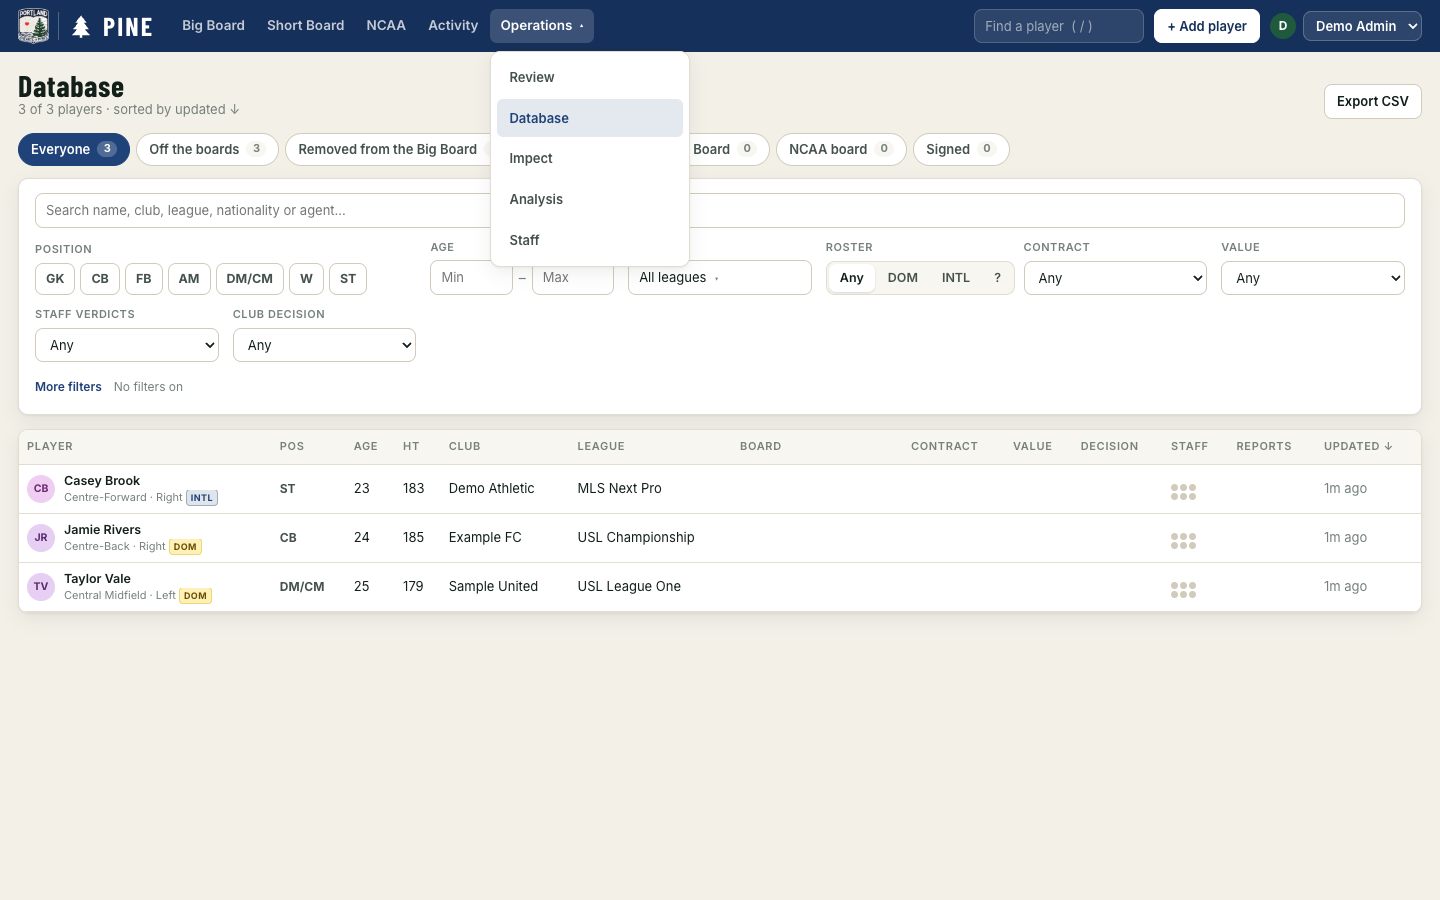
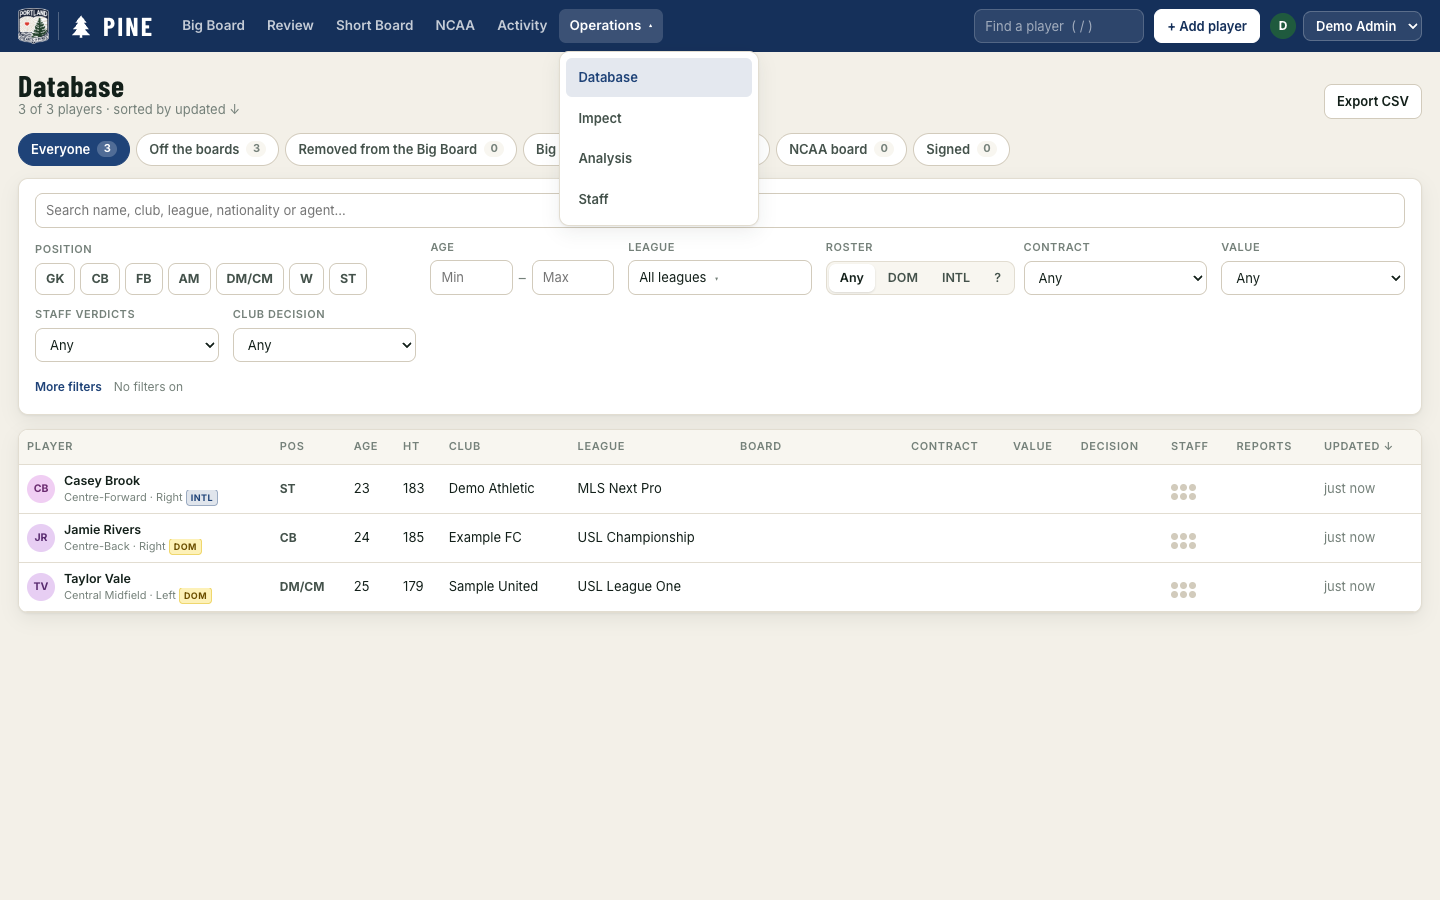
Restore Review as a separate navigation tab

diff --git a/public/app.js b/public/app.js
@@ -370,12 +370,12 @@ function renderShell() {
     <a class="brand" href="#/board"><img class="club-crest" src="/hop-crest.png?v=1" alt="Portland Hearts of Pine" width="31" height="36"><span class="brand-divider" aria-hidden="true"></span>${LOGO}<span class="wordmark">PINE</span><span class="tagline">Player Identification Network Evaluation</span></a>
     <nav class="nav" id="nav">
       <a href="#/board" data-v="board">Big Board</a>
+      ${reviewRole() ? `<a href="#/review" data-v="review">Review<span class="nav-badge" id="review-badge" ${S.reviewOpen ? "" : "hidden"}>${S.reviewOpen || ""}</span></a>` : ""}
       <a href="#/short-board" data-v="short-board">Short Board</a>
       <a href="#/ncaa" data-v="ncaa">NCAA</a>
       <a href="#/activity" data-v="activity">Activity</a>
-      <button class="nav-trigger" id="operations-trigger" type="button" popovertarget="operations-menu" aria-controls="operations-menu" aria-expanded="false">Operations${reviewRole() ? `<span class="nav-badge" id="operations-review-badge" title="Reviews waiting on you" ${S.reviewOpen ? "" : "hidden"}>${S.reviewOpen || ""}</span>` : ""}<span class="nav-caret" aria-hidden="true">▾</span></button>
+      <button class="nav-trigger" id="operations-trigger" type="button" popovertarget="operations-menu" aria-controls="operations-menu" aria-expanded="false">Operations<span class="nav-caret" aria-hidden="true">▾</span></button>
       <div class="nav-menu" id="operations-menu" popover role="group" aria-label="Operations">
-        ${reviewRole() ? `<a href="#/review" data-v="review">Review<span class="nav-badge" id="review-badge" ${S.reviewOpen ? "" : "hidden"}>${S.reviewOpen || ""}</span></a>` : ""}
         <a href="#/players" data-v="players">Database</a>
         <a href="#/impect" data-v="impect">Impect</a>
         <a href="#/analysis" data-v="analysis">Analysis</a>
@@ -480,7 +480,7 @@ async function render() {
     if (a.dataset.v === view) a.setAttribute("aria-current", "page");
     else a.removeAttribute("aria-current");
   });
-  const inOperations = ["review", "players", "player", "impect", "analysis", "staff"].includes(view);
+  const inOperations = ["players", "player", "impect", "analysis", "staff"].includes(view);
   $("#operations-trigger").classList.toggle("on", inOperations);
   const link = $("#nav > .on"), nav = $("#nav");
   if (link && nav.scrollWidth > nav.clientWidth) nav.scrollLeft = link.offsetLeft - nav.offsetLeft - (nav.clientWidth - link.offsetWidth) / 2;
@@ -3791,10 +3791,10 @@ const TM_LINK = /transfermarkt\.[a-z.]+\/.+\/spieler\/\d+/i;
 // The count is kept so the nav shows it however it's drawn: boot fetches it before the nav exists.
 function setReviewBadge(n) {
   S.reviewOpen = n || 0;
-  $$("#review-badge, #operations-review-badge").forEach((b) => {
-    b.hidden = !n;
-    b.textContent = n || "";
-  });
+  const b = $("#review-badge");
+  if (!b) return;
+  b.hidden = !n;
+  b.textContent = n || "";
 }
 
 const RV_STATUS = { added_sb: ["On the Short Board", "pass"], added_bb: ["Added to the Big Board", "pass"], moved_bb: ["Moved on the Big Board", "pass"],

diff --git a/public/styles.css b/public/styles.css
@@ -115,7 +115,6 @@ label.lbl, .lbl { display: block; font-size: 11px; font-weight: 600; letter-spac
 .nav-trigger { display: inline-flex; align-items: center; gap: 7px; border: 0; background: transparent; cursor: pointer; }
 .nav-caret { font-size: 10px; }
 .nav-trigger[aria-expanded="true"] .nav-caret { transform: rotate(180deg); }
-.nav-trigger .nav-badge { margin-left: 0; }
 .nav > a:hover, .nav-trigger:hover { color: #fff; background: rgba(255, 255, 255, .08); }
 .nav > a.on, .nav-trigger.on, .nav-trigger[aria-expanded="true"] { color: #fff; background: rgba(255, 255, 255, .16); }
 .nav > a:focus-visible, .nav-trigger:focus-visible { outline-color: #fff; }

diff --git a/docs/screenshots/operations/README.md b/docs/screenshots/operations/README.md
@@ -1,10 +1,10 @@
 # Operations navigation
 
-Big Board, Short Board, NCAA and Activity remain individual top-bar tabs.
-Operations groups Review, Database, Impect, Analysis and Staff. Review is visible
-only to the review team, and Staff only to admins. Operations stays selected on
-its pages and on player profiles, with the current destination highlighted in
-the dropdown. Pending reviews appear on both Operations and its Review link.
+Big Board, Review, Short Board, NCAA and Activity remain individual top-bar tabs.
+Operations groups Database, Impect, Analysis and Staff. Review and its pending
+count are visible only to the review team, and Staff only to admins. Operations
+stays selected on its pages and on player profiles, with the current destination
+highlighted in the dropdown.
 
 | View | Light | Dark |
 |---|---|---|
@@ -22,8 +22,8 @@ top-level destination, click and touch interaction, Enter/Space opening, Tab
 navigation, Escape with focus return, click-away dismissal, browser Back,
 player-profile highlighting, phone menu bounds and clipping, resize dismissal,
 the NCAA database view, review-team visibility, and admin-only Staff visibility.
-Pending-review badges were verified at startup and after polling, including
-clearing the count; opening the dropdown rotates only the caret, not the badge.
+The separate Review tab's badge was verified at startup and after polling,
+including clearing the count. Operations has no review badge.
 No JavaScript errors or horizontal document overflow occurred in these checks.
 
 Automated checks: `npm run check`, `npm test` (204 passing), and

diff --git a/README.md b/README.md
@@ -208,11 +208,11 @@ Minute share divides recorded player minutes by actual match duration across the
 
 ## What's where
 
-**Big Board**, **Short Board**, **NCAA** and **Activity** have their own top-bar
-tabs. **Operations** opens Review (for the review team), Database, Impect,
-Analysis and Staff (for admins). It stays highlighted on those pages and on
-player profiles, and shows the review team's pending-review count. Click a link
-to go directly to that page; click away or press Escape to close the dropdown.
+**Big Board**, **Review** (for the review team), **Short Board**, **NCAA** and
+**Activity** have their own top-bar tabs. Review shows its pending-review count.
+**Operations** opens Database, Impect, Analysis and Staff (for admins). It stays
+highlighted on those pages and on player profiles. Click a link to go directly
+to that page; click away or press Escape to close the dropdown.
 
 Official signings have a magenta frame and **✓ Signed** badge on the player page, Big Board,
 Short Board, NCAA board, player list and search results. Any signed-in staff member can use
